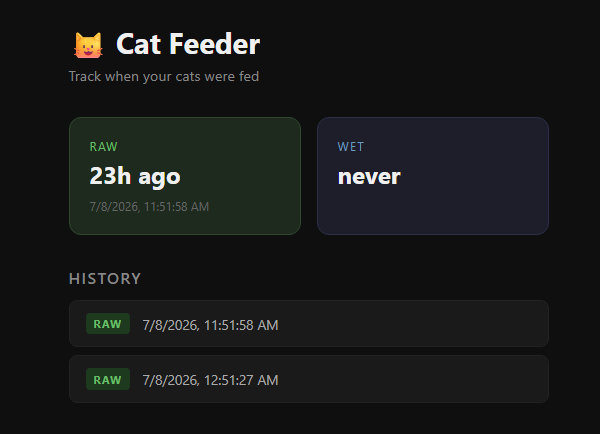
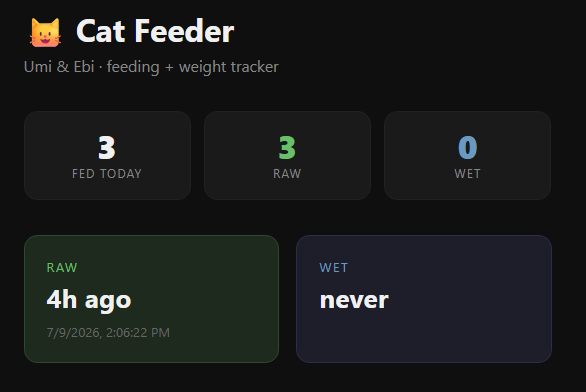
update pictures and links

diff --git a/projects.html b/projects.html
@@ -128,10 +128,15 @@ flowchart LR
             times</em>. A Supabase webhook mirrors every insert to a Google
             Sheet as a live backup. All timezone and de-dupe logic lives in
             Postgres, and the device stores nothing: unplug it and it just
-            re-reads from the API. Next up: Litter-Robot (Whisker API) weight
-            data to flag weekly changes, plus food-inventory restock tracking.
+            re-reads from the API. The webpage also syncs each cat&rsquo;s
+            weight from a Litter-Robot via the Whisker API to flag weekly
+            changes; food-inventory restock tracking is next.
           </p>
           <span class="project-status">Live &middot; running in the kitchen</span>
+          <a href="https://catfeeder.jonathanbgjo.com/" target="_blank" class="project-demo-btn">
+            <svg width="14" height="14" viewBox="0 0 24 24" fill="none" aria-hidden="true"><path d="M18 13v6a2 2 0 0 1-2 2H5a2 2 0 0 1-2-2V8a2 2 0 0 1 2-2h6M15 3h6v6M10 14 21 3" stroke="currentColor" stroke-width="2" stroke-linecap="round" stroke-linejoin="round"/></svg>
+            Live Demo
+          </a>
 
           <h4 class="diagram-title">System Architecture</h4>
           <div class="diagram-wrap" onclick="openDiagram(this)">
@@ -181,8 +186,10 @@ flowchart LR
           <div class="swiper catfeeder-swiper">
             <div class="swiper-wrapper">
               <div class="swiper-slide"><img src="assets/img/cat-feeder/cat-01.jpg" alt="Kitchen device" /><span class="slide-caption">Kitchen device &mdash; ESP32, OLED, raw/wet buttons</span></div>
-              <div class="swiper-slide"><img src="assets/img/cat-feeder/cat-02.png" alt="History webpage" /><span class="slide-caption">Webpage &mdash; last fed &amp; feeding history</span></div>
-              <div class="swiper-slide"><img src="assets/img/cat-feeder/cat-03.png" alt="Google Sheet backup" /><span class="slide-caption">Google Sheet &mdash; live backup mirror</span></div>
+              <div class="swiper-slide"><img src="assets/img/cat-feeder/cat-02.png" alt="Webpage dashboard" /><span class="slide-caption">Dashboard &mdash; last fed &amp; today&rsquo;s count</span></div>
+              <div class="swiper-slide"><img src="assets/img/cat-feeder/cat-03.png" alt="Feeding history" /><span class="slide-caption">History &mdash; grouped by day with per-day counts</span></div>
+              <div class="swiper-slide"><img src="assets/img/cat-feeder/cat-04.png" alt="Cat weights" /><span class="slide-caption">Weights &mdash; synced from Litter-Robot (Whisker API)</span></div>
+              <div class="swiper-slide"><img src="assets/img/cat-feeder/cat-05.png" alt="Google Sheet backup" /><span class="slide-caption">Google Sheet &mdash; live backup mirror</span></div>
             </div>
             <div class="swiper-button-prev catfeeder-prev"></div>
             <div class="swiper-button-next catfeeder-next"></div>
@@ -205,7 +212,7 @@ flowchart LR
             video upload &amp; transcoding, search, comments, likes, and
             subscription feeds.
           </p>
-          <a href="https://andromedia-2.vercel.app/" target="_blank" class="project-demo-btn">
+          <a href="https://andromedia.jonathanbgjo.com/" target="_blank" class="project-demo-btn">
             <svg width="14" height="14" viewBox="0 0 24 24" fill="none" aria-hidden="true"><path d="M18 13v6a2 2 0 0 1-2 2H5a2 2 0 0 1-2-2V8a2 2 0 0 1 2-2h6M15 3h6v6M10 14 21 3" stroke="currentColor" stroke-width="2" stroke-linecap="round" stroke-linejoin="round"/></svg>
             Live Demo
           </a>
